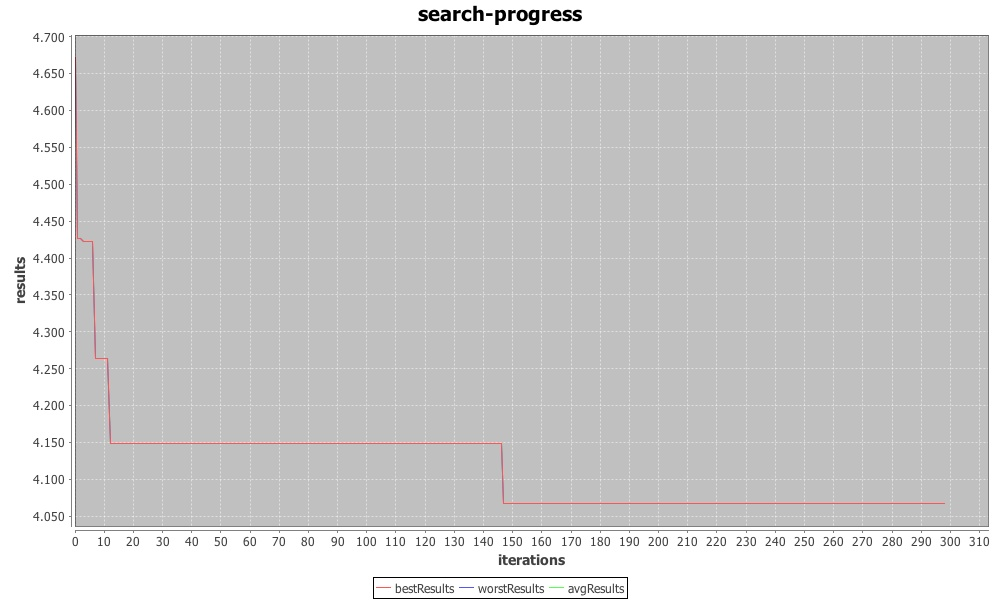
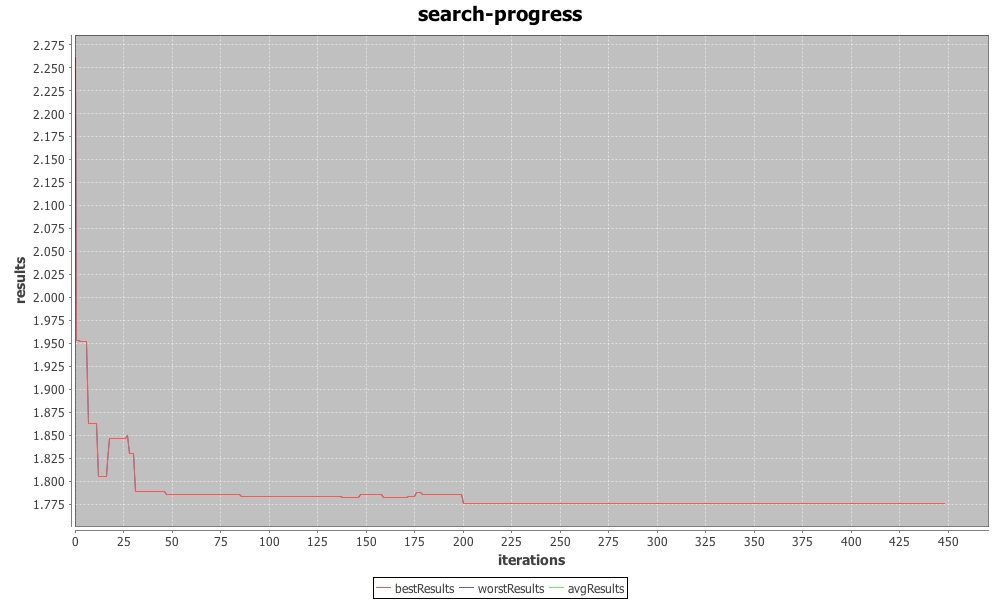
added MinMax problem

diff --git a/src/abe/AbeProblemMinMax.java b/src/abe/AbeProblemMinMax.java
@@ -99,7 +99,7 @@ public class AbeProblemMinMax {
 		 */
 		SolutionCostCalculator objectiveFunction = new SolutionCostCalculator() {
 			
-			private double scalingParameter = 0.8;
+			private double scalingParameter = 0.2;
 			
 			@Override
 			public double getCosts(VehicleRoutingProblemSolution solution) {
